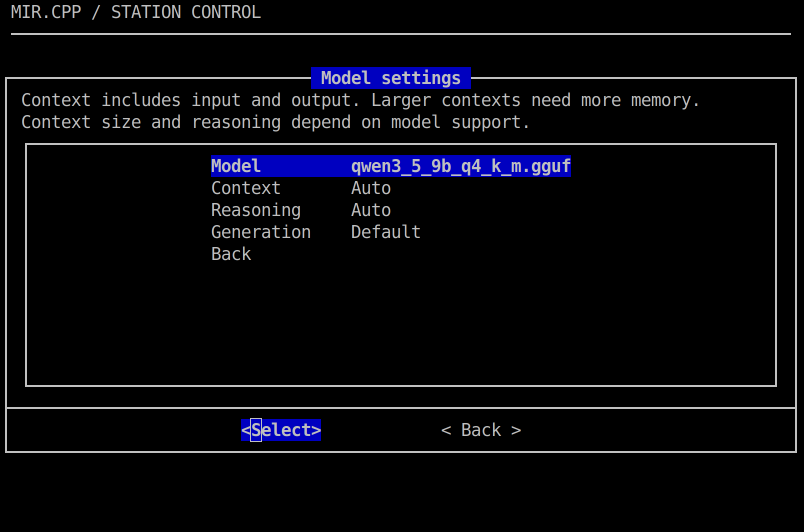
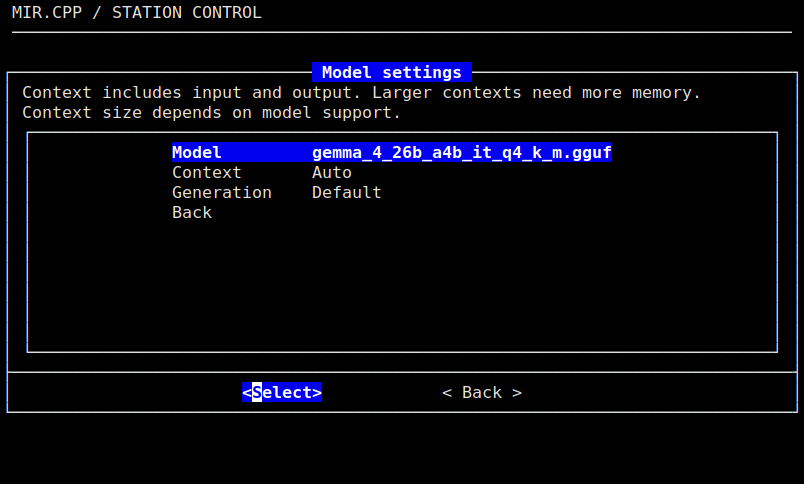
refactor: remove launcher reasoning controls

Changed region(s): [[0.0, 0.124, 0.995, 0.8678], [0.0, 0.0, 0.995, 0.093]]

diff --git a/AGENTS.md b/AGENTS.md
@@ -6,7 +6,7 @@ These instructions apply to `mir/mir.sh`, `README.md`, these instructions and fi
 
 Keep the visible repository root limited to `README.md`, `AGENTS.md` and the `mir/` software folder. Keep the source entry point and `dialogrc` together inside `mir/`, modules in `mir/lib/`, tests in `mir/tests/`, the installer in `mir/sh/install.sh`, and the user guide and screenshots in `mir/docs/`. Resolve runtime paths from `MIR_ROOT`, independently of the working directory. Keep the installed `mir` command and existing installation layout compatible when reorganizing source files.
 
-The script is a Bash launcher for the local llama.cpp server and its browser-based Web UI. Its `dialog` terminal interface discovers GGUF files under a user-selected models directory and lets the user select a model, context size, reasoning mode, port and performance settings before starting the server on CPU or a backend supported by the installed llama.cpp build. While running, it shows server status and offers log viewing and server shutdown. A model path and environment variables allow direct startup without the TUI. All script comments, menus, messages and project documentation must be in English.
+The script is a Bash launcher for the local llama.cpp server and its browser-based Web UI. Its `dialog` terminal interface discovers GGUF files under a user-selected models directory and lets the user select a model and configure context size, generation, port and performance settings before starting the server on CPU or a backend supported by the installed llama.cpp build. While running, it shows server status and offers log viewing and server shutdown. A model path and environment variables allow direct startup without the TUI. All script comments, menus, messages and project documentation must be in English.
 
 ## Platform boundaries
 
@@ -22,7 +22,7 @@ The launcher targets Linux with CPU, Vulkan and CUDA builds of llama.cpp, and ma
 
 ## TUI organization
 
-Keep the main menu in this order: Launch server, Model settings, Performance, Server & port, Saved configurations, Folders and Quit. Initially select Launch server, preserving all launch validation. Show the current configuration, model, compact context, reasoning, device and port status above these entries. Hide internal menu tags and display readable values while preserving stored values and command-line arguments. Keep menus readable at 80×24 characters. Group model selection, context, reasoning and Generation under Model settings; group port editing, status refresh and stopping an occupying process under Server & port. Keep complete process details available there and in shutdown confirmations. Order saved configuration actions as Load configuration, Update current, Save as new configuration, Delete configuration and Back, keeping deletion after the other operations.
+Keep the main menu in this order: Launch server, Model settings, Performance, Server & port, Saved configurations, Folders and Quit. Initially select Launch server, preserving all launch validation. Show the current configuration, model, compact context, device and port status above these entries. Hide internal menu tags and display readable values while preserving stored values and command-line arguments. Keep menus readable at 80×24 characters. Group model selection, context and Generation under Model settings; group port editing, status refresh and stopping an occupying process under Server & port. Keep complete process details available there and in shutdown confirmations. Order saved configuration actions as Load configuration, Update current, Save as new configuration, Delete configuration and Back, keeping deletion after the other operations.
 
 Use descriptive screen titles, Back controls in submenus and current-value selection where available. Remember the selected entry when returning from a setting or submenu. Loading a profile must still return to the main screen for review. Keep the running server screen's status, address, log access and Stop server control.
 
@@ -34,7 +34,7 @@ Keep the theme in `dialogrc` beside the script and apply it only to dialog invoc
 
 Keep llama.cpp and models paths configurable through the Folders menu, without fixed project-relative paths. Use a menu-based folder browser: Up/Down selects, Enter opens a directory, Parent folder goes up, Enter path accepts a typed or pasted path, and Use this folder separately confirms the current directory. Display the current path and brief instructions. Sort directories alphabetically, hide dot-prefixed directories initially and provide a Show/Hide hidden folders action. Back/Esc cancels without saving; manual paths must still allow hidden directories. Validate readable directories; the llama.cpp folder must contain executable `build/bin/llama-server` or `bin/llama-server`, preferring the source-build layout when both exist. Save accepted changes atomically in `${XDG_CONFIG_HOME:-$HOME/.config}/mir.cpp/paths.conf`, separately from model profiles. Read this file as data, never source or eval. If saving fails, keep previous settings.
 
-Allow first-time configuration and correction of missing or invalid paths from the TUI. Empty model folders must show a clear message without exiting. Refresh recursive GGUF discovery when the folder changes and retain the selected model if still listed. Block launch with a clear message when the server or model is unavailable. Direct startup uses saved paths, with `MIR_LLAMA_CPP_DIR` and `MIR_MODELS_DIR` overrides supported. Keep existing profile files compatible.
+Allow first-time configuration and correction of missing or invalid paths from the TUI. Empty model folders must show a clear message without exiting. Refresh recursive GGUF discovery when the folder changes and retain the selected model if still listed. Block launch with a clear message when the server or model is unavailable. Direct startup uses saved paths, with `MIR_LLAMA_CPP_DIR` and `MIR_MODELS_DIR` overrides supported.
 
 ## Port and process management
 
@@ -56,17 +56,17 @@ Prompt processing choices are Default (no batch overrides), Low memory (`--batch
 
 ## Generation settings
 
-Keep Default, Focused, Exploratory, Min-P and Custom sampling choices under Model settings → Generation. Default omits sampling arguments. Focused uses temperature 0.6, Top-P 0.95, Top-K 20 and Min-P 0; Exploratory changes temperature to 1; Min-P uses temperature 1, Top-P 1, Top-K 0 and Min-P 0.05. All three explicit presets set repeat penalty to 1 and presence/frequency penalties to 0. Treat presets as manual starting points, never universal quality guarantees or automatic model-family rules. Preserve reasoning, context, device and performance settings when selecting a preset.
+Keep Default, Focused, Exploratory, Min-P and Custom sampling choices under Model settings → Generation. Default omits sampling arguments. Focused uses temperature 0.6, Top-P 0.95, Top-K 20 and Min-P 0; Exploratory changes temperature to 1; Min-P uses temperature 1, Top-P 1, Top-K 0 and Min-P 0.05. All three explicit presets set repeat penalty to 1 and presence/frequency penalties to 0. Treat presets as manual starting points, never universal quality guarantees or automatic model-family rules. Preserve context, device and performance settings when selecting a preset.
 
 Allow custom sampling values and separate seed and maximum output token controls. Applying a sampling preset preserves seed and output length. Derive the preset label from actual sampling values; persist values rather than a potentially stale label. Validate numeric inputs without evaluating them as code. Keep automatic values unset on the server command line and sampling arguments out of memory planning. Support direct startup through MIR_GENERATION_PRESET and individual MIR_* generation controls, with legacy LLAMA_* aliases and explicit trailing arguments preserved. Explain that browser chat overrides can replace server defaults; never overwrite browser preferences or conversations.
 
 ## Saved configurations
 
-Keep named profiles in `${XDG_CONFIG_HOME:-$HOME/.config}/mir.cpp/profiles/`, one plain `key=value` file per profile. Read profiles as data; never use source or eval. Save the model path, context, reasoning, port, device, threads, GPU layers, prompt processing, temperature, Top-P, Top-K, Min-P, repeat penalty, presence penalty, frequency penalty, seed and maximum output tokens. Accept legacy eight-field profiles by restoring all nine generation fields to automatic defaults; require all seventeen fields in new profiles. Do not persist conversations, arbitrary trailing arguments or unrelated environment settings.
+Keep named profiles in `${XDG_CONFIG_HOME:-$HOME/.config}/mir.cpp/profiles/`, one plain `key=value` file per profile. Read profiles as data; never use source or eval. Save the model path, context, port, device, threads, GPU layers, prompt processing, temperature, Top-P, Top-K, Min-P, repeat penalty, presence penalty, frequency penalty, seed and maximum output tokens. Require all sixteen fields; do not support previous profile formats. Do not persist conversations, arbitrary trailing arguments or unrelated environment settings.
 
 Validate every field and the model file before applying any loaded settings; failures must preserve all current settings. Loading returns to the main menu without launching, and existing port checks still apply. Confirm replacement and deletion. Use safe profile names and atomic writes, report storage failures, and preserve direct startup behavior. Keep the menu and documentation in English.
 
-Show the current profile name (or Not saved) in the main summary and Saved configurations menu. Track the exact saved values of all seventeen profile fields to show Modified only when they differ. Successful load and Save as set the current profile; successful Update current refreshes it after explicit overwrite confirmation. Share serialization between saving and comparison. Failed or canceled operations must preserve tracking and saved files. Deleting the current profile clears its association only after successful deletion while preserving current settings. Track the association for the running launcher session only; global paths remain separate, though selecting another model through folder discovery changes the profile's model field.
+Show the current profile name (or Not saved) in the main summary and Saved configurations menu. Track the exact saved values of all sixteen profile fields to show Modified only when they differ. Successful load and Save as set the current profile; successful Update current refreshes it after explicit overwrite confirmation. Share serialization between saving and comparison. Failed or canceled operations must preserve tracking and saved files. Deleting the current profile clears its association only after successful deletion while preserving current settings. Track the association for the running launcher session only; global paths remain separate, though selecting another model through folder discovery changes the profile's model field.
 
 ## User documentation
 
@@ -74,13 +74,13 @@ Keep `README.md` in English, short, practical and understandable without program
 
 Include two readable screenshots captured from the real terminal interface: the main menu and Model settings. Store them under `mir/docs/screenshots/`, use relative Markdown links, provide descriptive alt text and a short explanatory caption, and update them when the pictured interface changes. Do not fabricate interface elements, results or server readiness; omit unrelated desktop content and private paths. Keep images supplementary to usable text instructions.
 
-Keep installation steps, paths, menu labels, defaults and examples aligned with the actual script and installer. Explain port shutdown confirmations, model capability and memory limits, and the distinction between terminal configuration and browser chat in a few plain sentences. Do not claim that every model supports every context size or reasoning mode. Put detailed menus, environment controls, sampling tables, maintenance, troubleshooting and development checks in `mir/docs/guide.md`, linked once from the README. Avoid a manual table of contents, exhaustive option tables, repeated explanations and implementation details in the README.
+Keep installation steps, paths, menu labels, defaults and examples aligned with the actual script and installer. Explain port shutdown confirmations, model capability and memory limits, and the distinction between terminal configuration and browser chat in a few plain sentences. Do not claim that every model supports every context size. Put detailed menus, environment controls, sampling tables, maintenance, troubleshooting and development checks in `mir/docs/guide.md`, linked once from the README. Avoid a manual table of contents, exhaustive option tables, repeated explanations and implementation details in the README.
 
 ## General model compatibility
 
-The launcher MUST WORK WITH EVERY GGUF MODEL supported by the installed llama.cpp version and the available hardware. Model architecture, context limits, chat templates, reasoning support and memory requirements vary: respect those capabilities and report unsupported configurations clearly.
+The launcher MUST WORK WITH EVERY GGUF MODEL supported by the installed llama.cpp version and the available hardware. Model architecture, context limits, chat templates and memory requirements vary: respect those capabilities and report unsupported configurations clearly.
 
-Do not hardcode behavior for a particular model, family, filename or directory layout. Do not assume that every model supports reasoning or the same context length. Preserve configuration options so other GGUF models can be used without editing the script. A model that exceeds hardware resources or is unsupported by llama.cpp cannot be made compatible by the launcher alone.
+Do not hardcode behavior for a particular model, family, filename or directory layout. Do not assume that every model supports the same context length. Preserve configuration options so other GGUF models can be used without editing the script. A model that exceeds hardware resources or is unsupported by llama.cpp cannot be made compatible by the launcher alone.
 
 ## Mandatory user approval before changes
 
@@ -102,4 +102,4 @@ Use `Mir.cpp` as the product name, `mir.sh` as the main source entry point, `mir
 
 Use only `mir.sh` as the source entry point. Centralize launcher-control resolution with precedence `MIR_*`, then legacy `LLAMA_*` aliases. Explicitly set `MIR_*` values take precedence even when empty; retain the existing empty-value behavior of `LLAMA_*` aliases. Keep `LLAMA_CPP_DIR` as the legacy alias of `MIR_LLAMA_CPP_DIR`, and leave native llama.cpp variables such as `LLAMA_ARG_*` unchanged. Read values literally without eval, without altering the environment or leaving stale aliases between initializations.
 
-When `${XDG_CONFIG_HOME:-$HOME/.config}/mir.cpp` is absent, import the previous `llama-launcher` directory. Use a temporary copy and atomic activation, preserving originals and never merging with or overwriting existing Mir.cpp settings. Import failures must be clear and preserve the original data. Keep saved data keys and profile formats compatible. Installing Mir.cpp creates its own command and data directory; preserve unrelated installations and commands. Old product names may appear only where required for compatibility, migration, documentation of those behaviors and their tests.
+When `${XDG_CONFIG_HOME:-$HOME/.config}/mir.cpp` is absent, import the previous `llama-launcher` directory. Use a temporary copy and atomic activation, preserving originals and never merging with or overwriting existing Mir.cpp settings. Import failures must be clear and preserve the original data. Installing Mir.cpp creates its own command and data directory; preserve unrelated installations and commands. Old product names may appear only where required for compatibility, migration, documentation of those behaviors and their tests.

diff --git a/mir/docs/guide.md b/mir/docs/guide.md
@@ -56,14 +56,14 @@ move between buttons. **Back** or **Esc** cancels a setting or returns from a
 submenu. **Quit** or **Esc** on the main screen exits. Menus remember the selected
 entry and highlight the current value where available.
 
-The main screen shows the current configuration, model, context, reasoning,
+The main screen shows the current configuration, model, context,
 device, port status and estimated free memory. Long names are shortened only for
 display. All seven actions fit an 80×24 terminal:
 
 | Menu | Purpose |
 | --- | --- |
 | Launch server | Start the model with the displayed settings. |
-| Model settings | Select a model, context, reasoning and generation settings. |
+| Model settings | Select a model, context and generation settings. |
 | Performance | Select devices, CPU threads, GPU layers and prompt processing. |
 | Server & port | Edit the port, refresh status, inspect or stop listeners. |
 | Saved configurations | Load, update, save or delete settings. |
@@ -177,13 +177,12 @@ Use the same `XDG_DATA_HOME` to manage them later.
 
 ## Model and performance settings
 
-Under **Model settings**, choose a model, context and reasoning. **Auto** context
-omits the context argument, leaving native model, environment and memory choices
-in effect. Fixed choices range from 4K to 256K (1K = 1024 tokens). **Custom** accepts
-`auto` or 0–2147483647 tokens; `0` requests full model context and may need much
-more memory. Context includes input and output. Reasoning accepts **Auto**,
-**Off** or **On**; Auto leaves the server default unchanged. Available context and
-reasoning behavior depend on the model and installed llama.cpp.
+Under **Model settings**, choose a model, context and generation settings.
+**Auto** context omits the context argument, leaving native model, environment
+and memory choices in effect. Fixed choices range from 4K to 256K (1K = 1024
+tokens). **Custom** accepts `auto` or 0–2147483647 tokens; `0` requests full model
+context and may need much more memory. Context includes input and output. Available context sizes depend
+on the model and installed llama.cpp.
 
 Start with **Auto** and **Default** under **Performance**:
 
@@ -250,7 +249,7 @@ Open **Model settings → Generation → Preset**:
 Default omits sampling arguments. The three explicit presets set repeat penalty
 to 1 and presence/frequency penalties to 0. They are manual starting points, with
 no model-family detection or quality guarantee. Applying one preserves context,
-reasoning, performance, seed and output length. The label follows the exact
+performance, seed and output length. The label follows the exact
 sampling values; other combinations show **Custom**.
 
 **Sampling parameters** edits all seven values. Temperature controls randomness;
@@ -264,7 +263,7 @@ below.
 A fixed seed helps comparisons but does not guarantee identical results across
 hardware or settings. **Maximum output tokens** accepts **auto**, **-1** for no
 fixed generation limit, or 0–2147483647. Zero evaluates input without generating
-an answer. This limit is separate from context; short limits can cut off reasoning.
+an answer. This limit is separate from context; short limits can truncate output.
 
 Terminal choices take effect at server launch. Browser chat settings and API
 requests can override server defaults. Clear explicit browser sampling values to
@@ -291,11 +290,10 @@ the label to **Not saved**.
 
 Profiles are plain `key=value` files under
 `${XDG_CONFIG_HOME:-$HOME/.config}/mir.cpp/profiles/`; back up this folder to retain
-them. Each stores 17 fields: model, context, reasoning, port, device, threads,
-GPU layers, prompt processing and nine generation values. Legacy eight-field
-profiles load with all generation values reset to auto. Partial or invalid
-profiles and missing models leave current settings unchanged. Saved devices are
-checked against the current server before launch.
+them. Each stores 16 fields: model, context, port, device, threads, GPU layers,
+prompt processing and nine generation values. All fields are required. Partial
+or invalid profiles and missing models leave current settings unchanged. Saved
+devices are checked against the current server before launch.
 
 Profiles exclude conversations, trailing arguments and unrelated environment
 settings. Global folder paths are stored separately; changing the models folder
@@ -319,7 +317,7 @@ port again immediately before launch.
 Passing a model path starts directly without the TUI:
 
 ```bash
-MIR_CTX_SIZE=8192 MIR_REASONING=auto MIR_PORT=9931 \
+MIR_CTX_SIZE=8192 MIR_PORT=9931 \
     ~/.local/bin/mir "/path/to/model.gguf"
 ```
 
@@ -331,7 +329,6 @@ currently displayed paths.
 | --- | --- |
 | `MIR_LLAMA_CPP_DIR`, `MIR_MODELS_DIR` | Folder paths; saved paths when available. |
 | `MIR_CTX_SIZE` | `auto` or 0–2147483647; `auto`. Zero requests full model context. |
-| `MIR_REASONING` | `auto`, `on`, `off`; `auto`. |
 | `MIR_PORT` | 1–65535; `9931`. |
 | `MIR_HOST` | Explicit server bind address; otherwise native host settings or `127.0.0.1`. |
 | `MIR_DEVICE` | `auto`, `none` (CPU only), or comma-separated discovered device names; `auto`. |

diff --git a/README.md b/README.md
@@ -56,9 +56,9 @@ If the command is not found, use `~/.local/bin/mir` or add `~/.local/bin` to you
 4. Select **Launch server**. The browser opens when ready, normally at
    `http://127.0.0.1:9931`. Keep the terminal open while chatting.
 
-[<img src="mir/docs/screenshots/model-settings.png" alt="Model settings menu with model, context, reasoning and generation controls" width="640">](mir/docs/screenshots/model-settings.png)
+[<img src="mir/docs/screenshots/model-settings.png" alt="Model settings menu with model, context and generation controls" width="640">](mir/docs/screenshots/model-settings.png)
 
-*Context size and reasoning depend on model support. Larger contexts need more memory.*
+*Choose a supported context size. Larger contexts need more memory.*
 
 Terminal settings configure the server; browser chat settings can override generation defaults.
 Use **View log** if loading fails and **Stop server** when finished. Closing the browser
